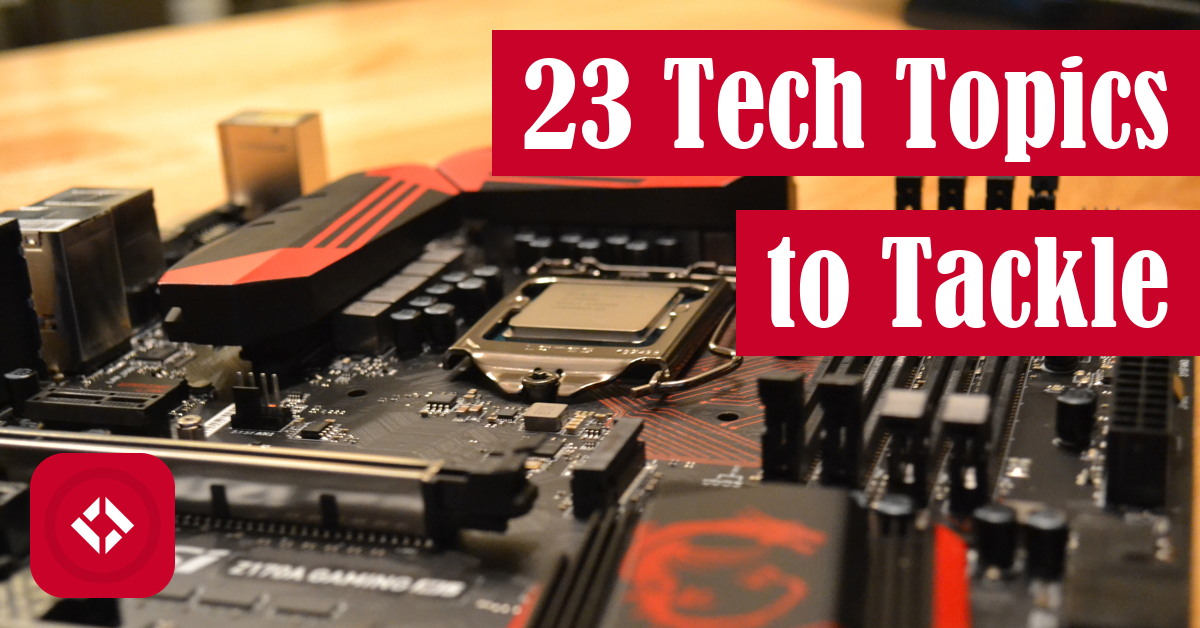
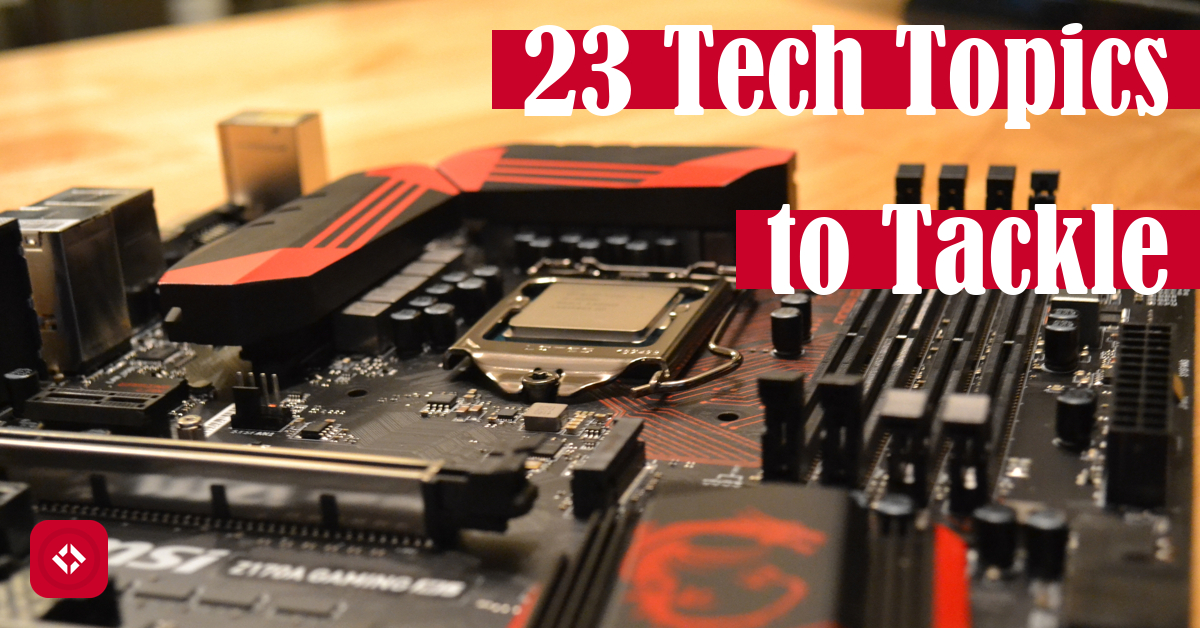
Eliminated the concept of bar height

Changed region(s): [[0.4008, 0.0303, 1.0, 0.5748], [0.0, 0.6959, 0.1542, 0.9682], [0.0, 0.9076, 0.0308, 0.9379]]

diff --git a/imagetitler/draw.py b/imagetitler/draw.py
@@ -19,9 +19,7 @@ FONT_SIZE = 114
 TOP_RECTANGLE_Y = 30
 BOTTOM_RECTANGLE_Y = TOP_RECTANGLE_Y + 180
 BOTTOM_TEXT_Y = BOTTOM_RECTANGLE_Y + 5
-RECTANGLE_HEIGHT = 145
 X_OFFSET = 30
-LOGO_SIZE = (RECTANGLE_HEIGHT, RECTANGLE_HEIGHT)
 LOGO_PADDING = 30
 
 
@@ -80,7 +78,7 @@ def _process_image(**kwargs) -> Image.Image:
     if logo_path := kwargs.get(KEY_LOGO_PATH):
         logo: Image.Image = Image.open(logo_path)
         color = _get_best_top_color(logo)
-        _draw_logo(cropped_img, logo)
+        _draw_logo(cropped_img, logo, **kwargs)
     edited_image = _draw_overlay(
         cropped_img,
         color,
@@ -133,6 +131,17 @@ def _convert_file_name_to_title(**kwargs) -> Optional[str]:
     return title
 
 
+def _get_bar_height(**kwargs) -> int:
+    """
+    A helper function which retrieves the bar height based on the size of the image.
+
+    :param kwargs: a set of options
+    :return: the bar height in pixels
+    """
+    image_size = _retrieve_size_from_options(**kwargs)
+    return image_size[1] // 8
+
+
 def _draw_rectangle(
         draw: ImageDraw,
         position: int,
@@ -154,7 +163,7 @@ def _draw_rectangle(
     draw.rectangle(
         (
             (image_width - width - X_OFFSET * 2, position),
-            (image_width, position + RECTANGLE_HEIGHT)
+            (image_width, position + _get_bar_height(**kwargs))
         ),
         fill=color,
         outline=TIER_MAP.get(kwargs.get(KEY_TIER), None),
@@ -195,7 +204,7 @@ def _get_text_position(text_width, text_height, text_ascent, y_offset, **kwargs)
     image_width = _retrieve_size_from_options(**kwargs)[0]
     return (
         image_width - text_width - X_OFFSET,
-        y_offset - text_ascent + (RECTANGLE_HEIGHT - text_height) / 2
+        y_offset - text_ascent + (_get_bar_height(**kwargs) - text_height) / 2
     )
 
 
@@ -247,7 +256,18 @@ def _draw_overlay(image: Image.Image, color: tuple, **kwargs) -> Image:
     return image
 
 
-def _draw_logo(img: Image.Image, logo: Image.Image):
+def _get_logo_size(**kwargs) -> tuple:
+    """
+    A helper function that retrieves the size of the logo based on the size of the bars.
+
+    :param kwargs: a set of options
+    :return: a logo size tuple
+    """
+    bar_height = _get_bar_height(**kwargs)
+    return bar_height, bar_height
+
+
+def _draw_logo(img: Image.Image, logo: Image.Image, **kwargs):
     """
     Adds a logo to the image if a path is provided.
 
@@ -255,9 +275,10 @@ def _draw_logo(img: Image.Image, logo: Image.Image):
     :param logo: the logo file to be added
     :return: nothing
     """
-    logo.thumbnail(LOGO_SIZE)
+    logo_size = _get_logo_size(**kwargs)
+    logo.thumbnail(logo_size)
     _, height = img.size
-    img.paste(logo, (LOGO_PADDING, height - LOGO_SIZE[1] - LOGO_PADDING), logo)
+    img.paste(logo, (LOGO_PADDING, height - logo_size[1] - LOGO_PADDING), logo)
 
 
 def _split_string_by_nearest_middle_space(input_string: str) -> tuple:
